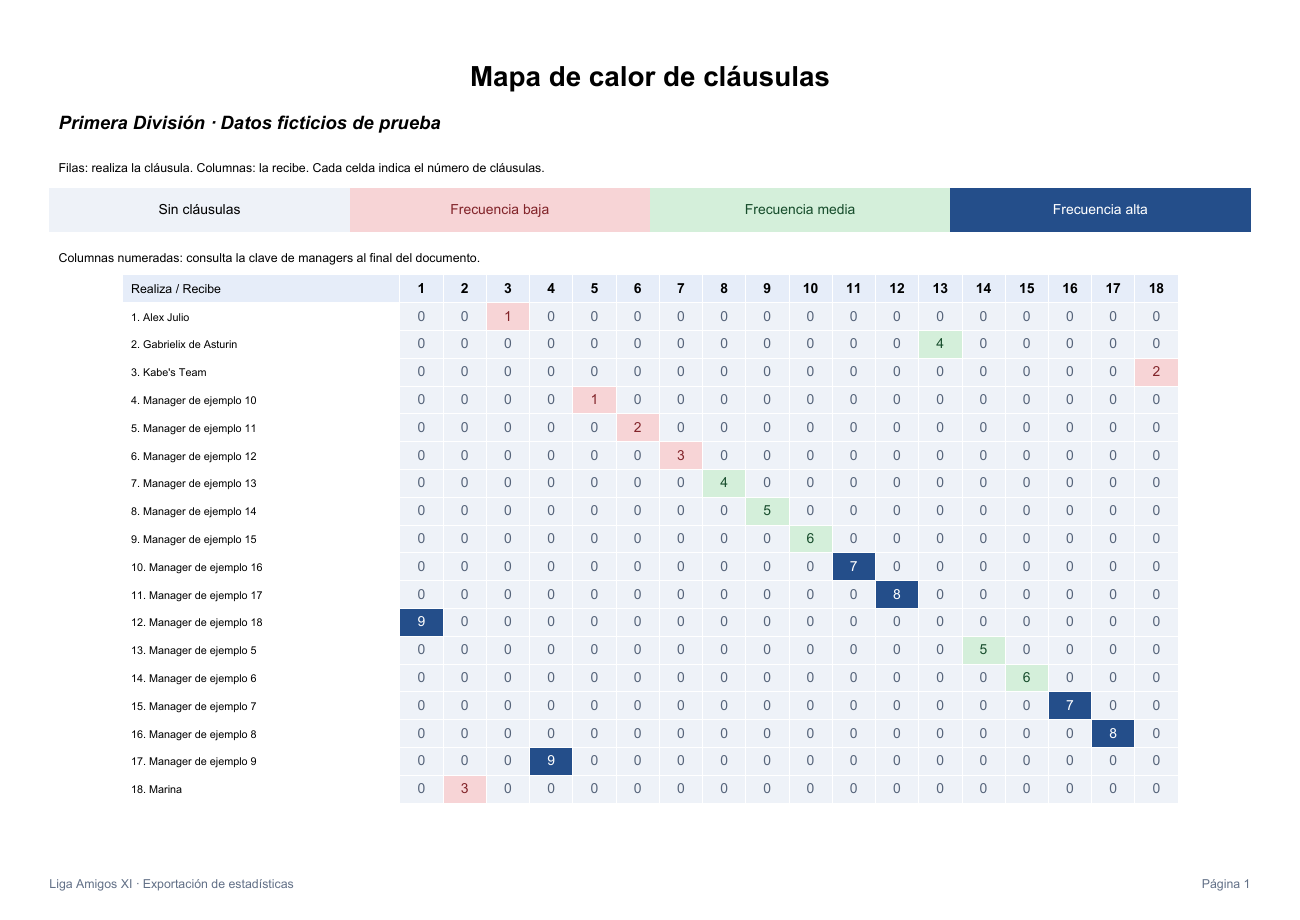
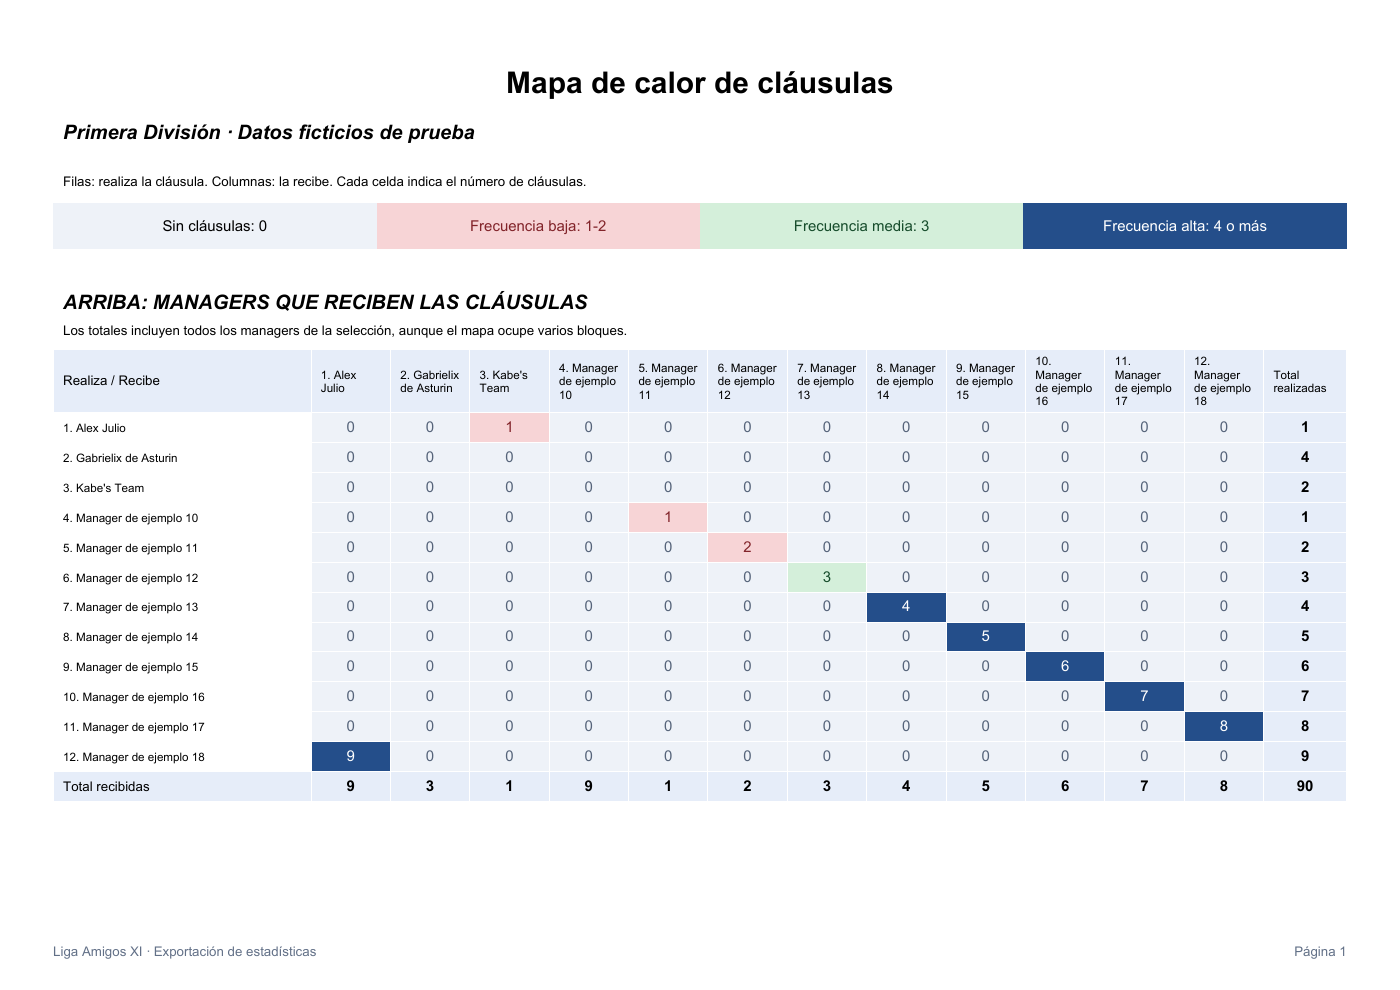
Añadir totales y frecuencias fijas al mapa de cláusulas

diff --git a/templates/clause_analysis.html b/templates/clause_analysis.html
@@ -1,6 +1,9 @@
 <style>
 .clause-export{display:block;margin-top:14px;border:0;border-radius:8px;background:#254ea4;color:#fff;padding:10px 14px;font:inherit;font-weight:bold;cursor:pointer}.clause-export:disabled{opacity:.55;cursor:wait}.clause-export-status{display:block;margin-top:7px;font-size:12px;color:#51617a}.heat-legend{display:flex;gap:10px;flex-wrap:wrap;align-items:center;margin:12px 0;font-size:12px}.heat-key{display:inline-flex;gap:5px;align-items:center}.heat-key i{width:16px;height:16px;border-radius:4px;display:inline-block}
 </style>
+<style>
+.heatmap th.heat-recipient{white-space:normal;min-width:72px;max-width:110px;font-size:11px;line-height:1.25;vertical-align:bottom}.heatmap .heat-total{background:#e6edf9;color:#18316b;font-weight:bold;white-space:nowrap}.heatmap .heat-direction{text-align:center;color:#18316b;background:#e6edf9;font-size:12px}
+</style>
 <script>
 document.addEventListener('DOMContentLoaded', () => {
   const esc = value => String(value).replace(/[&<>"']/g, ch => ({'&':'&amp;','<':'&lt;','>':'&gt;','"':'&quot;',"'":'&#39;'}[ch]));
@@ -10,10 +13,10 @@ document.addEventListener('DOMContentLoaded', () => {
   const select = document.getElementById('clause-manager-select');
   const detail = document.getElementById('clause-manager-detail');
   const rankingBox = document.getElementById('clause-ranking');
-  card.querySelector('p.empty').textContent = 'Rojo: menor frecuencia · Verde: frecuencia media · Azul: mayor frecuencia. El número indica cuántas cláusulas hay, no puntos de penalización.';
+  card.querySelector('p.empty').textContent = 'Arriba: quién recibe las cláusulas. A la izquierda: quién las realiza. El número indica cuántas cláusulas hay, no puntos de penalización.';
   const legend = document.createElement('div');
   legend.className = 'heat-legend';
-  legend.innerHTML = '<span class="heat-key"><i style="background:#eef2f8"></i>Sin cláusulas</span><span class="heat-key"><i style="background:#f7d4d6"></i>Baja</span><span class="heat-key"><i style="background:#d4efda"></i>Media</span><span class="heat-key"><i style="background:#244e8a"></i>Alta</span>';
+  legend.innerHTML = '<span class="heat-key"><i style="background:#eef2f8"></i>Sin cláusulas: 0</span><span class="heat-key"><i style="background:#f7d4d6"></i>Frecuencia baja: 1–2</span><span class="heat-key"><i style="background:#d4efda"></i>Frecuencia media: 3</span><span class="heat-key"><i style="background:#244e8a"></i>Frecuencia alta: 4 o más</span>';
   heat.after(legend);
   function addExport(anchor, kind) {
     const button = document.createElement('button');
@@ -60,12 +63,20 @@ document.addEventListener('DOMContentLoaded', () => {
     }
     const names = [...new Set(links.flatMap(item => [item.source, item.target]))].sort((a,b) => a.localeCompare(b,'es'));
     const lookup = new Map(links.map(item => [item.source+'\u0000'+item.target, item]));
-    const maximum = Math.max(...links.map(item => Number(item.count) || 0), 1), previous = select.value;
-    const colors = count => !count ? ['#eef2f8','#56647a'] : count <= Math.ceil(maximum/3) ? ['#f7d4d6','#82242a'] : count <= Math.ceil(maximum*2/3) ? ['#d4efda','#174d2c'] : ['#244e8a','#ffffff'];
-    heat.innerHTML = '<table class="heatmap"><thead><tr><th>Realiza ↓ / Recibe →</th>' + names.map(name => '<th title="'+esc(name)+'">'+esc(name.slice(0,7))+'</th>').join('') + '</tr></thead><tbody>' + names.map(source => '<tr><th class="row-name">'+esc(source)+'</th>' + names.map(target => {
+    const previous = select.value;
+    const outgoingTotals = new Map(), incomingTotals = new Map();
+    let grandTotal = 0;
+    links.forEach(item => {
+      const count = Number(item.count) || 0;
+      outgoingTotals.set(item.source, (outgoingTotals.get(item.source) || 0) + count);
+      incomingTotals.set(item.target, (incomingTotals.get(item.target) || 0) + count);
+      grandTotal += count;
+    });
+    const colors = count => !count ? ['#eef2f8','#56647a'] : count <= 2 ? ['#f7d4d6','#82242a'] : count === 3 ? ['#d4efda','#174d2c'] : ['#244e8a','#ffffff'];
+    heat.innerHTML = '<table class="heatmap"><thead><tr><th rowspan="2">Quién realiza ↓</th><th class="heat-direction" colspan="'+names.length+'">Quién recibe las cláusulas ↓</th><th class="heat-total" rowspan="2">Total realizadas</th></tr><tr>' + names.map(name => '<th class="heat-recipient" title="'+esc(name)+'">'+esc(name)+'</th>').join('') + '</tr></thead><tbody>' + names.map(source => '<tr><th class="row-name">'+esc(source)+'</th>' + names.map(target => {
       const item = lookup.get(source+'\u0000'+target), count = item ? Number(item.count) : 0, [bg,fg] = colors(count);
       return '<td class="heat-cell" style="background:'+bg+';color:'+fg+'" title="'+esc(source)+' → '+esc(target)+': '+count+' cláusula(s)'+(item?', '+money(item.value):'')+'">'+(count||'·')+'</td>';
-    }).join('') + '</tr>').join('') + '</tbody></table>';
+    }).join('') + '<td class="heat-total">'+(outgoingTotals.get(source)||0)+'</td></tr>').join('') + '</tbody><tfoot><tr><th class="heat-total">Total recibidas</th>'+names.map(target => '<td class="heat-total">'+(incomingTotals.get(target)||0)+'</td>').join('')+'<td class="heat-total" title="Total de cláusulas">'+grandTotal+'</td></tr></tfoot></table>';
     select.innerHTML = names.map(name => '<option '+(name === previous ? 'selected' : '')+'>'+esc(name)+'</option>').join('');
     function renderManager() {
       const name = select.value;

diff --git a/core/clause_pdf.py b/core/clause_pdf.py
@@ -1,7 +1,6 @@
 """Read-only clause exports with the same scope as the statistics screen."""
 from io import BytesIO
 import json
-from math import ceil
 from xml.sax.saxutils import escape
 
 from django.contrib.auth.decorators import login_required
@@ -14,11 +13,20 @@ from .journeys import journey_label
 PALETTE = [('#f7d4d6', '#82242a'), ('#d4efda', '#174d2c'), ('#244e8a', '#ffffff')]
 
 
-def heat_colors(count, maximum):
+def heat_colors(count, maximum=None):
     if not count:
         return '#eef2f8', '#56647a'
-    index = 0 if count <= ceil(maximum / 3) else 1 if count <= ceil(maximum * 2 / 3) else 2
+    index = 0 if count <= 2 else 1 if count == 3 else 2
     return PALETTE[index]
+
+
+def clause_totals(links):
+    outgoing, incoming = {}, {}
+    for item in links:
+        count = int(item['count'])
+        outgoing[item['source']] = outgoing.get(item['source'], 0) + count
+        incoming[item['target']] = incoming.get(item['target'], 0) + count
+    return outgoing, incoming, sum(outgoing.values())
 
 
 def build_clause_pdf(links, division, period, manager=None):
@@ -50,35 +58,41 @@ def build_clause_pdf(links, division, period, manager=None):
     if heatmap:
         names = sorted({name for item in links for name in (item['source'], item['target'])}, key=str.casefold)
         ids = {name: index + 1 for index, name in enumerate(names)}
-        maximum = max((int(item['count']) for item in links), default=1)
+        outgoing_totals, incoming_totals, grand_total = clause_totals(links)
         lookup = {(item['source'], item['target']): int(item['count']) for item in links}
         story += [p('Filas: realiza la cláusula. Columnas: la recibe. Cada celda indica el número de cláusulas.', 'Compact')]
-        legend = Table([['Sin cláusulas', 'Frecuencia baja', 'Frecuencia media', 'Frecuencia alta']], colWidths=[doc.width / 4]*4)
+        legend = Table([['Sin cláusulas: 0', 'Frecuencia baja: 1-2', 'Frecuencia media: 3', 'Frecuencia alta: 4 o más']], colWidths=[doc.width / 4]*4)
         legend.setStyle(TableStyle([('BACKGROUND', (0, 0), (0, 0), colors.HexColor('#eef2f8'))]
             + [('BACKGROUND', (i+1, 0), (i+1, 0), colors.HexColor(bg)) for i, (bg, _) in enumerate(PALETTE)]
             + [('TEXTCOLOR', (i+1, 0), (i+1, 0), colors.HexColor(fg)) for i, (_, fg) in enumerate(PALETTE)]
             + [('FONTSIZE', (0, 0), (-1, -1), 9), ('ALIGN', (0, 0), (-1, -1), 'CENTER'), ('BOTTOMPADDING', (0, 0), (-1, -1), 8), ('TOPPADDING', (0, 0), (-1, -1), 8)]))
         story += [Spacer(1, 8), legend, Spacer(1, 12)]
-        chunks = [names[index:index+18] for index in range(0, len(names), 18)]
+        chunks = [names[index:index+12] for index in range(0, len(names), 12)]
         if not names:
             story.append(p('No hay cláusulas con manager de destino en este periodo.'))
         for ri, row_names in enumerate(chunks):
             for ci, column_names in enumerate(chunks):
                 if ri or ci:
                     story += [PageBreak(), p(title, 'Heading1'), p(f'{division} · {period}', 'Heading3')]
-                story.append(p('Columnas numeradas: consulta la clave de managers al final del documento.', 'Compact'))
-                cells = [[p('Realiza / Recibe', 'Compact')] + [str(ids[name]) for name in column_names]]
+                story.append(p('ARRIBA: MANAGERS QUE RECIBEN LAS CLÁUSULAS', 'Heading3'))
+                story.append(p('Los totales incluyen todos los managers de la selección, aunque el mapa ocupe varios bloques.', 'Compact'))
+                cells = [[p('Realiza / Recibe', 'Compact')] + [p(f'{ids[name]}. {name}', 'SmallCell') for name in column_names] + [p('Total realizadas', 'SmallCell')]]
                 commands = [('BACKGROUND', (0, 0), (-1, 0), colors.HexColor('#e6edf9')),
                             ('FONTNAME', (0, 0), (-1, 0), 'Helvetica-Bold'), ('FONTSIZE', (0, 0), (-1, -1), 9),
                             ('ALIGN', (1, 0), (-1, -1), 'CENTER'), ('VALIGN', (0, 0), (-1, -1), 'MIDDLE'),
                             ('GRID', (0, 0), (-1, -1), 0.5, colors.white)]
                 for row_index, source in enumerate(row_names, 1):
-                    cells.append([p(f'{ids[source]}. {source}', 'SmallCell')] + [str(lookup.get((source, target), 0)) or '0' for target in column_names])
+                    cells.append([p(f'{ids[source]}. {source}', 'SmallCell')] + [str(lookup.get((source, target), 0)) for target in column_names] + [str(outgoing_totals.get(source, 0))])
                     for col_index, target in enumerate(column_names, 1):
-                        bg, fg = heat_colors(lookup.get((source, target), 0), maximum)
+                        bg, fg = heat_colors(lookup.get((source, target), 0))
                         commands += [('BACKGROUND', (col_index, row_index), (col_index, row_index), colors.HexColor(bg)),
                                      ('TEXTCOLOR', (col_index, row_index), (col_index, row_index), colors.HexColor(fg))]
-                table = Table(cells, colWidths=[180] + [min(28, (doc.width-180)/len(column_names))]*len(column_names), repeatRows=1)
+                cells.append([p('Total recibidas', 'Compact')] + [str(incoming_totals.get(target, 0)) for target in column_names] + [str(grand_total)])
+                commands += [('BACKGROUND', (-1, 1), (-1, -1), colors.HexColor('#e6edf9')),
+                             ('BACKGROUND', (0, -1), (-1, -1), colors.HexColor('#e6edf9')),
+                             ('FONTNAME', (-1, 1), (-1, -1), 'Helvetica-Bold'),
+                             ('FONTNAME', (0, -1), (-1, -1), 'Helvetica-Bold')]
+                table = Table(cells, colWidths=[155] + [(doc.width-205)/len(column_names)]*len(column_names) + [50], repeatRows=1)
                 table.setStyle(TableStyle(commands))
                 story += [Spacer(1, 6), table]
         if names:

diff --git a/core/test_clause_pdf.py b/core/test_clause_pdf.py
@@ -5,7 +5,7 @@ from django.template.loader import render_to_string
 from django.test import SimpleTestCase, TestCase
 from pypdf import PdfReader
 
-from .clause_pdf import build_clause_pdf, heat_colors
+from .clause_pdf import build_clause_pdf, heat_colors, clause_totals
 from .models import CambioRegistro, JornadaRegistro, UserAccess
 
 
@@ -13,8 +13,24 @@ class ClausePDFLayoutTests(SimpleTestCase):
     def test_three_distinct_colors_and_empty(self):
         self.assertEqual(heat_colors(0, 9), ('#eef2f8', '#56647a'))
         self.assertEqual(heat_colors(1, 9)[0], '#f7d4d6')
-        self.assertEqual(heat_colors(5, 9)[0], '#d4efda')
+        self.assertEqual(heat_colors(2, 9)[0], '#f7d4d6')
+        self.assertEqual(heat_colors(3, 9)[0], '#d4efda')
+        self.assertEqual(heat_colors(4, 9)[0], '#244e8a')
         self.assertEqual(heat_colors(9, 9)[0], '#244e8a')
+        self.assertEqual(heat_colors(3, 100), heat_colors(3, 3))
+
+    def test_totals_count_clauses_not_amount_or_relationships(self):
+        links = [{'source':'Alex', 'target':'Marina', 'count':2, 'value':5000},
+                 {'source':'Alex', 'target':'Raul', 'count':3, 'value':9000},
+                 {'source':'Marina', 'target':'Alex', 'count':4, 'value':7000}]
+        outgoing, incoming, total = clause_totals(links)
+        self.assertEqual(outgoing, {'Alex':5, 'Marina':4})
+        self.assertEqual(incoming, {'Marina':2, 'Raul':3, 'Alex':4})
+        self.assertEqual(total, 9)
+        self.assertEqual(clause_totals([]), ({}, {}, 0))
+        text = '\n'.join(page.extract_text() for page in PdfReader(BytesIO(build_clause_pdf(links, 'Primera División', 'General'))).pages)
+        for label in ('Total realizadas', 'Total recibidas', 'Frecuencia baja: 1-2', 'Frecuencia media: 3', 'Frecuencia alta: 4 o más', 'MANAGERS QUE RECIBEN'):
+            self.assertIn(label, ' '.join(text.split()))
 
     def test_large_heatmap_and_full_manager_names(self):
         names = [f'Manager número {index:02}' for index in range(20)]
@@ -49,6 +65,10 @@ class ClausePDFLayoutTests(SimpleTestCase):
         for count in (1, 5, 9):
             self.assertIn(heat_colors(count, 9)[0], html)
         self.assertNotIn('rgba(224,107,40', html)
+        self.assertIn('Quién recibe las cláusulas', html)
+        self.assertIn('Total realizadas', html)
+        self.assertIn('Total recibidas', html)
+        self.assertNotIn('name.slice(0,7)', html)
 
 
 class ClausePDFEndpointTests(TestCase):
